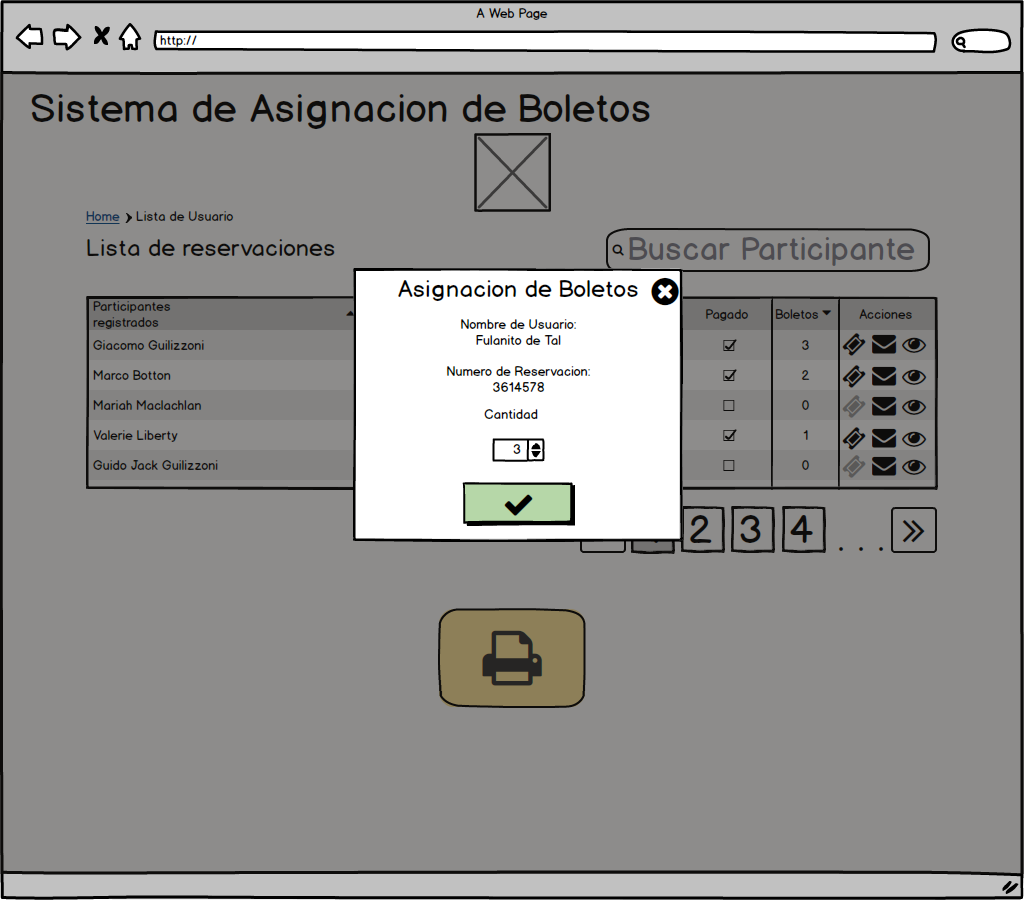
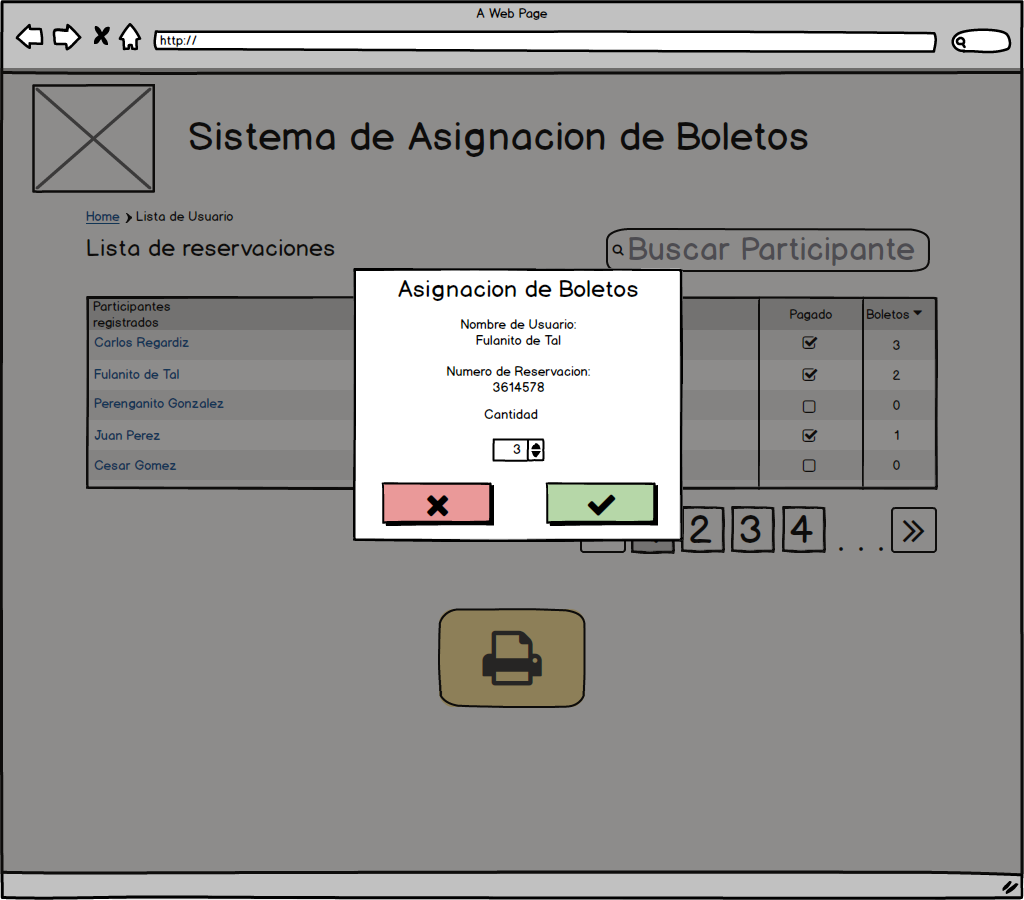
modified src/ and Readme.md

diff --git a/README.md b/README.md
@@ -1,4 +1,4 @@
-# Online-contest
+# Sistema de Asignacion de Boletos
 An React online contest application
 
 Flujo de Trabajo para la asignacion de boletos de rifa a usuarios que han reservado con la empresa.
@@ -7,11 +7,11 @@ Flujo de Trabajo para la asignacion de boletos de rifa a usuarios que han reserv
 - [ ] El asesor de ventas puede ver la lista de usuarios registrados.
 - [ ] El asesor de ventas puede confirmar que los usuarios han realizado el pago de la reservacion.
 - [ ] El asesor de ventas puede asignar la cantidad de boletos que se le dara a la usuario que ya han pagado la reservacion
-- [ ]El asesor de ventas puede enviar un correo electronico de confimacion a cada usuario, detallando en este correo electronico los boletos asignados
-- [ ]El asesor de ventas puede imprimir todos los boletos asignados con los datos de cada usuario.
-- [ ]El asesor de ventas puede generar una busqueda de datos de los clientes con los boletos asignados.
-- [ ]El asesor de venta puede ver los detalles de cada usuario
-- [ ]El asesor de venta puede editar datos de cada usuario
+- [ ] El asesor de ventas puede enviar un correo electronico de confimacion a cada usuario, detallando en este correo electronico los boletos asignados
+- [ ] El asesor de ventas puede imprimir todos los boletos asignados con los datos de cada usuario.
+- [ ] El asesor de ventas puede generar una busqueda de datos de los clientes con los boletos asignados.
+- [ ] El asesor de venta puede ver los detalles de cada usuario
+- [ ] El asesor de venta puede editar datos de cada usuario
 
 ### Mapa de sitio
 ![Map-site](src/Map-site.png)
@@ -19,33 +19,25 @@ Flujo de Trabajo para la asignacion de boletos de rifa a usuarios que han reserv
 ### Home
 ![Home](src/Home.png)
 
-Menu con botones de acceso a registro nuevo usuario y lista de usuarios
-
-### Registro de usuario
-![Form](src/Form.png)
-
 Formulario para registro de usuario
 
-### Lista de usuarios registrado
+### Lista de usuarios registrados
 ![List_user](src/List_user.png)
 
-Lista en forma de tabla con informacion basica del usuario, cuenta con barra de busqueda, cada linea de usuario muestra un check editable para activar si el usuario ya realizo el pago, y botones de accion, las acciones son asignacion de boletos(se activa siempre y cuando el usuario ya realizo el pago), envio de correo electronico y ver detalles de usuario.
-Cuenta con un boton para imprimir todos los boletos asignados.
+Lista en forma de tabla con informacion basica del usuario, cuenta con barra de busqueda;
+cuenta con un boton para imprimir todos los boletos asignados; en la linea de usuario al dar clic en el nombre de cada usuario pasamos al modal de detalles de usuario; cada linea de usuario muestra un check editable para activar si el usuario ya realizo el pago, al activar pasamos al modal de asignacion de boletos.
+
 
 ### Asignacion de boletos por usuario
 ![Assign_ticket](src/Assign_ticket.png)
 
-Modal que muestra la asignacion de boletos por usuario
+Modal que muestra la asignacion de boletos por usuario, al enviar los datos automaticamente se envia un correo electronico al usuario con informacion de los boletos asignados.
 
-### Confirmacion para el envio de correo electronico
-![Send_email](src/Send_email.png)
-
-Modal de confirmacion para el envio de correo electronico
 
 ###  Detalles de usuario
 ![Details_user](src/Details_user.png)
 
-Modal que muestra lo detalles de usuario
+Modal que muestra lo detalles de usuario, cuenta con boton para editar.
 
 ###  Editar usuario
 ![Edit_user](src/Edit_user.png)
